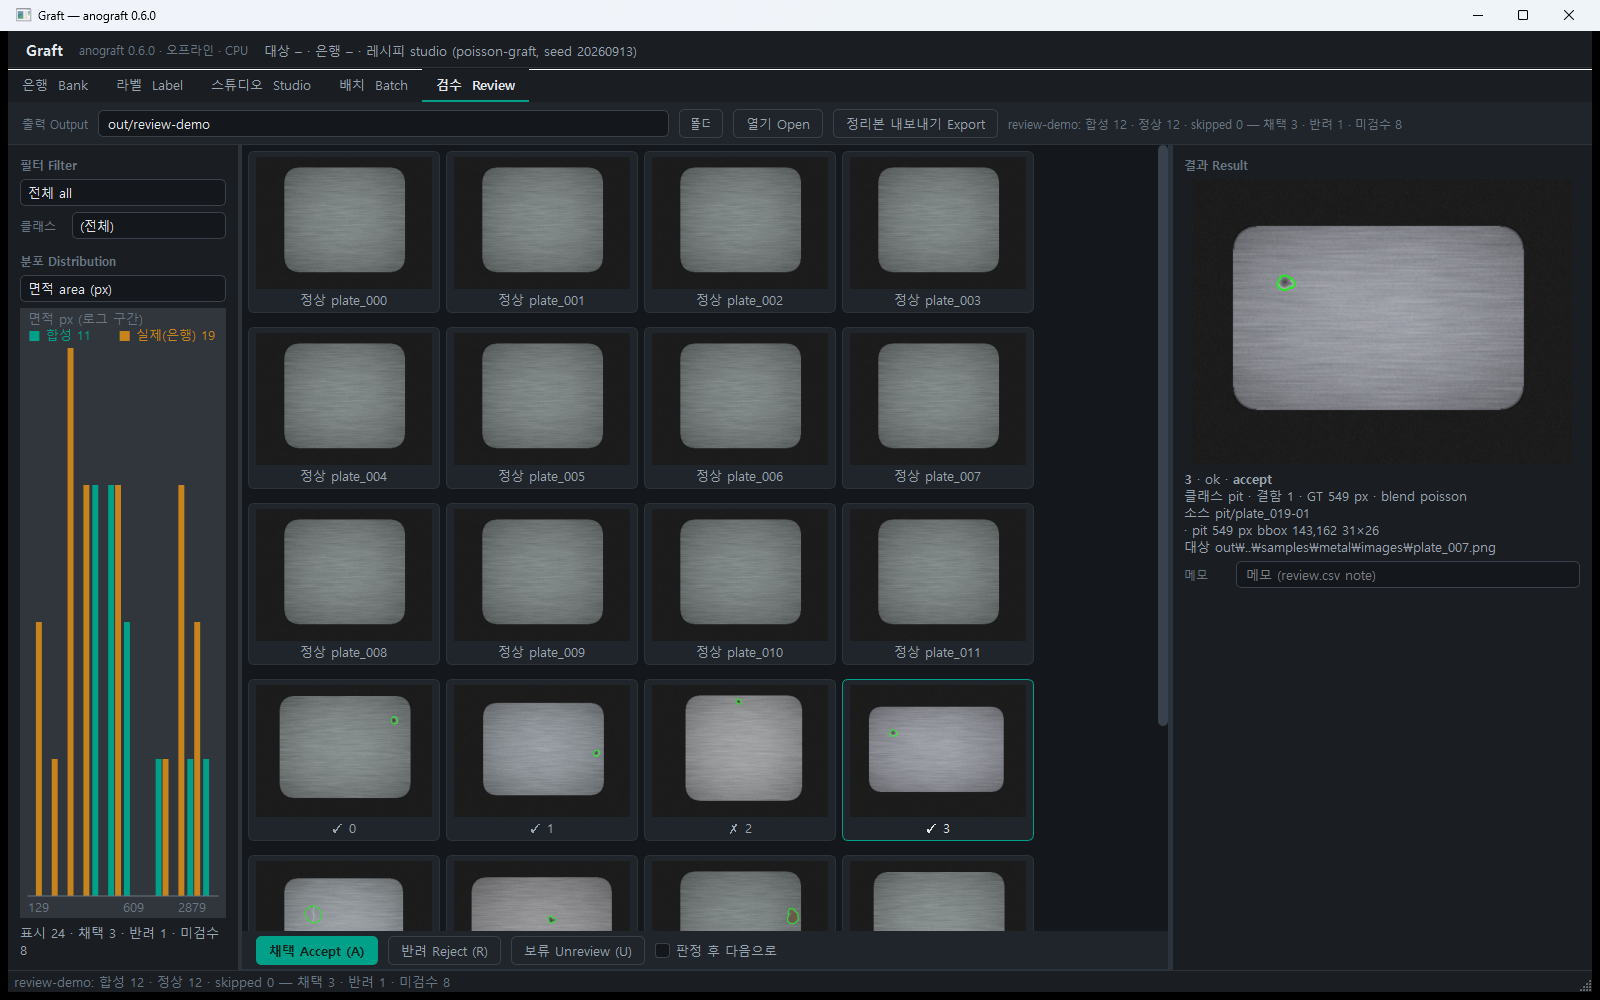
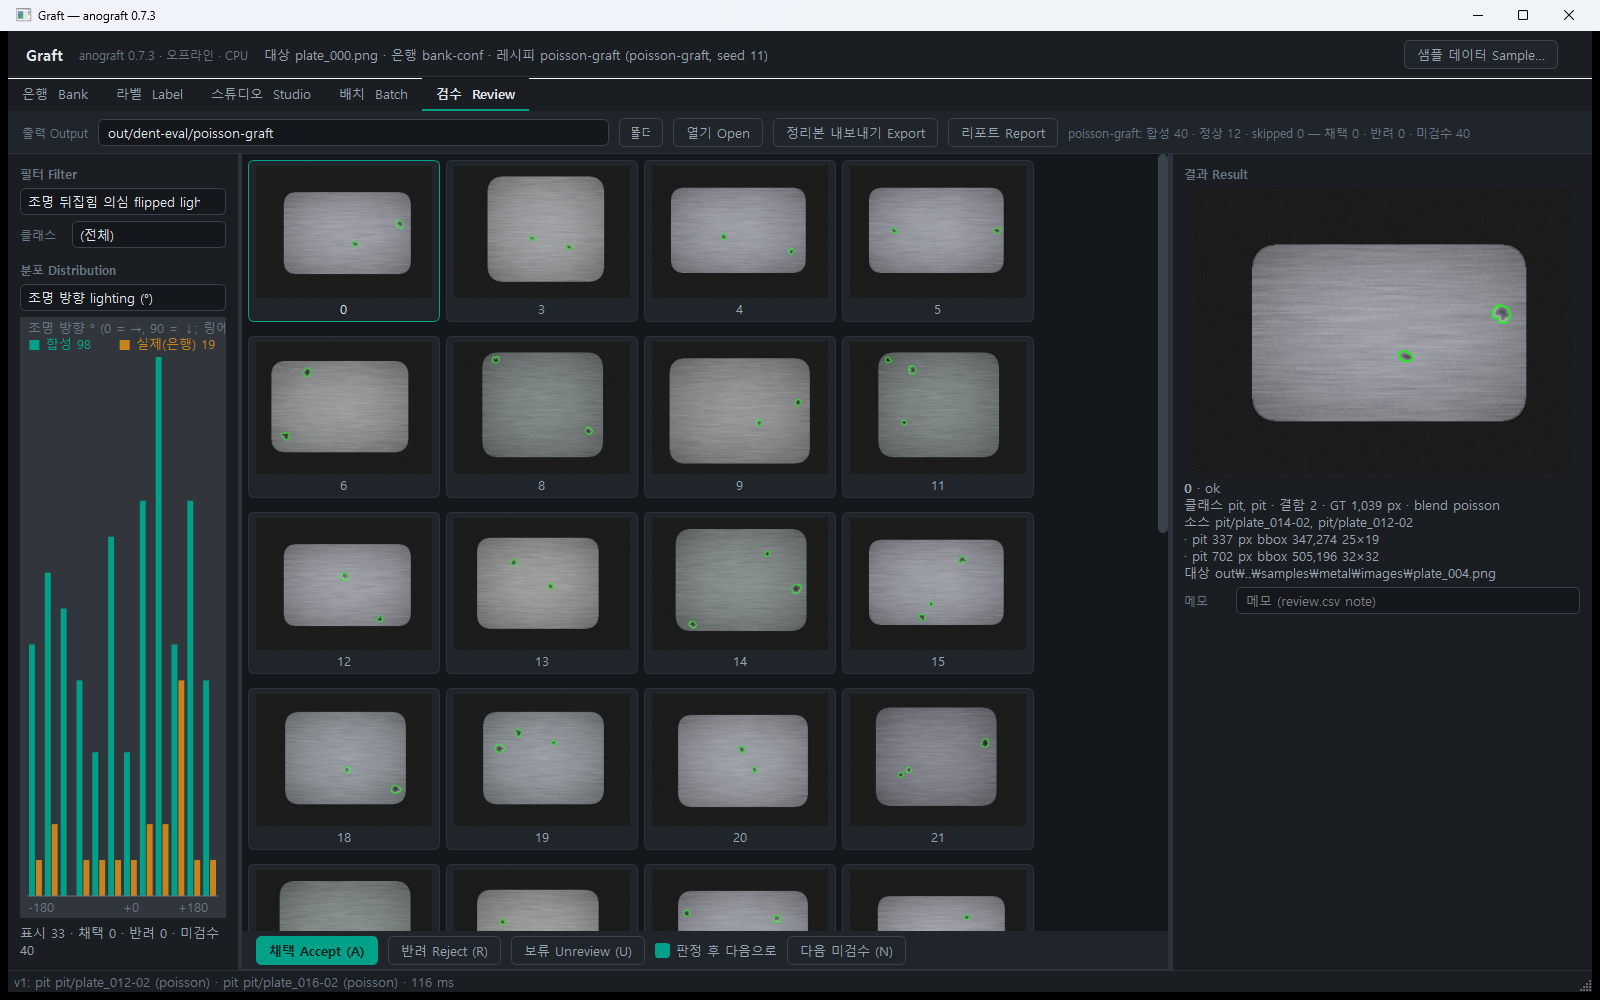
docs(readme): 검수 탭 스크린샷 교체 — 조명 방향 히스토그램(합성 사방 vs 실제 +90°) · '조명 뒤집힘 의심' 33/40 + 설명 문단
Claude-Session: https://claude.ai/code/session_01EC9nt9sxbR7dezAAooVDdP

diff --git a/README.md b/README.md
@@ -63,7 +63,7 @@ anograft-gui recipes/sample-poisson.yaml                                  # GUI 
 
 ![GUI 배치 탭](assets/gui-batch.png)
 
-**은행 탭**(v0.7)에서 소스를 신뢰도순으로 보고 저신뢰(빨간 테두리)를 골라 다듬거나 지웁니다. **검수 탭**(v0.7)에서 합성 결과를 A/R 로 판정하고, 왼쪽 히스토그램으로 합성(teal) vs 실제(amber) 결함 크기 분포를 비교한 뒤 반려를 뺀 정리본을 내보냅니다.
+**은행 탭**(v0.7)에서 소스를 신뢰도순으로 보고 저신뢰(빨간 테두리)를 골라 다듬거나 지웁니다. **검수 탭**(v0.7)에서 합성 결과를 A/R 로 판정하고, 왼쪽 히스토그램으로 합성(teal) vs 실제(amber) 분포(크기 · 대비 · 질감 · 선명도 · **조명 방향**)를 비교한 뒤 반려를 뺀 정리본을 내보냅니다. 아래 화면은 ±180° 회전 프리셋으로 찍힘(pit)을 합성한 결과 — 실제 소스의 하이라이트는 한 방향(amber 가 +90° 에 모임)인데 합성은 사방으로 퍼졌고, 필터 **조명 뒤집힘 의심**이 40장 중 33장을 골라냈다(→ `dent-graft`).
 
 ![GUI 은행 탭](assets/gui-bank.png)
 
